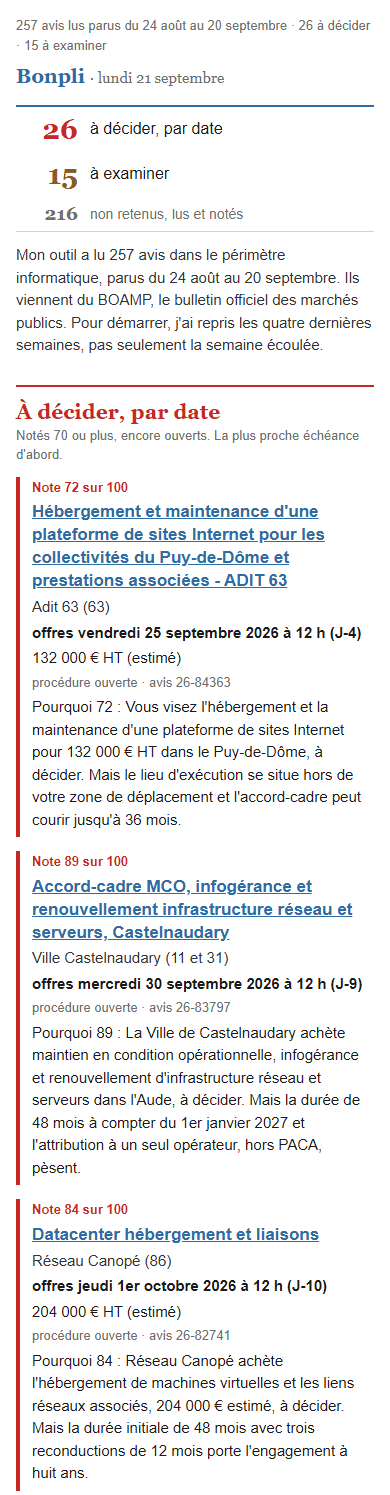
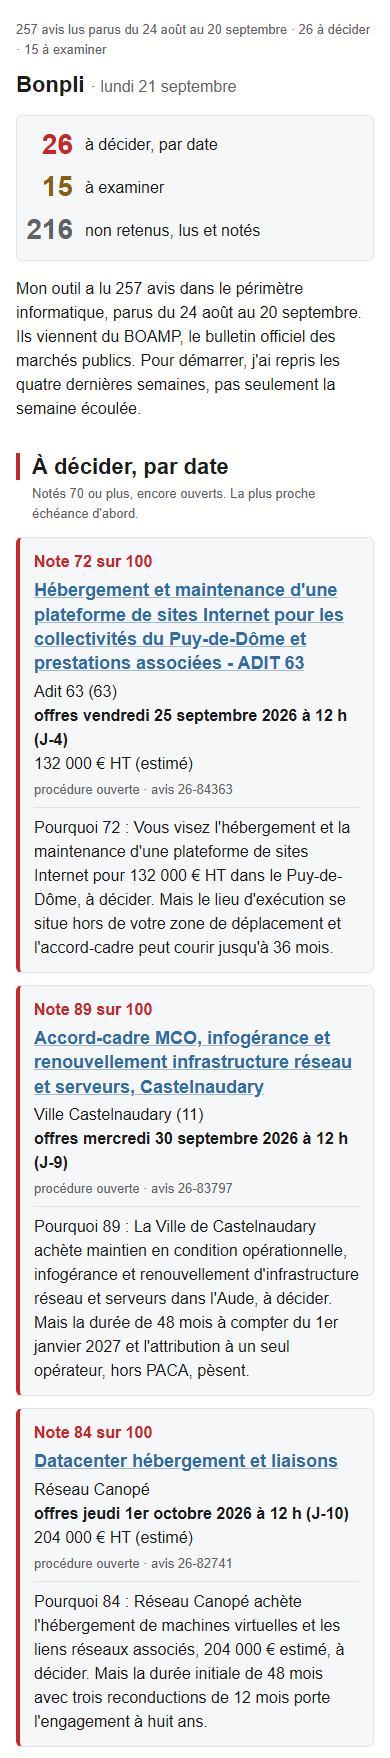
fix(site): l'exemple de première sélection au style du digest du 29/09
Même email, mêmes dates, même cadrage (du haut du corps à la troisième carte
« À décider ») ; seule la forme change, celle que les clients reçoivent
désormais.

diff --git a/index.html b/index.html
@@ -94,7 +94,7 @@ footer h2 { font-size: 1.05rem; }
 <section id="extrait">
   <h2>Un exemple réel</h2>
   <p>Exemple : la première sélection d'une entreprise d'infogérance, cloud et cybersécurité en région PACA, sur les avis parus du 24 août au 20 septembre 2026.</p>
-  <img class="capture" src="premiere-selection-21-septembre.png" width="390" height="1495" loading="lazy" alt="Haut de la première sélection, datée du lundi 21 septembre : 257 avis lus, parus du 24 août au 20 septembre, 26 à décider, 15 à examiner, 216 non retenus, lus et notés. Puis les trois premiers appels d'offres « À décider », par date limite, notés 72, 89 et 84 sur 100, chacun avec son acheteur, sa date limite, son montant quand il est publié et son « Pourquoi ».">
+  <img class="capture" src="premiere-selection-21-septembre.png" width="390" height="1758" loading="lazy" alt="Haut de la première sélection, datée du lundi 21 septembre : 257 avis lus, parus du 24 août au 20 septembre, 26 à décider, 15 à examiner, 216 non retenus, lus et notés. Puis les trois premiers appels d'offres « À décider », par date limite, notés 72, 89 et 84 sur 100, chacun avec son acheteur, sa date limite, son montant quand il est publié et son « Pourquoi ».">
 </section>
 
 <section id="lundi">
